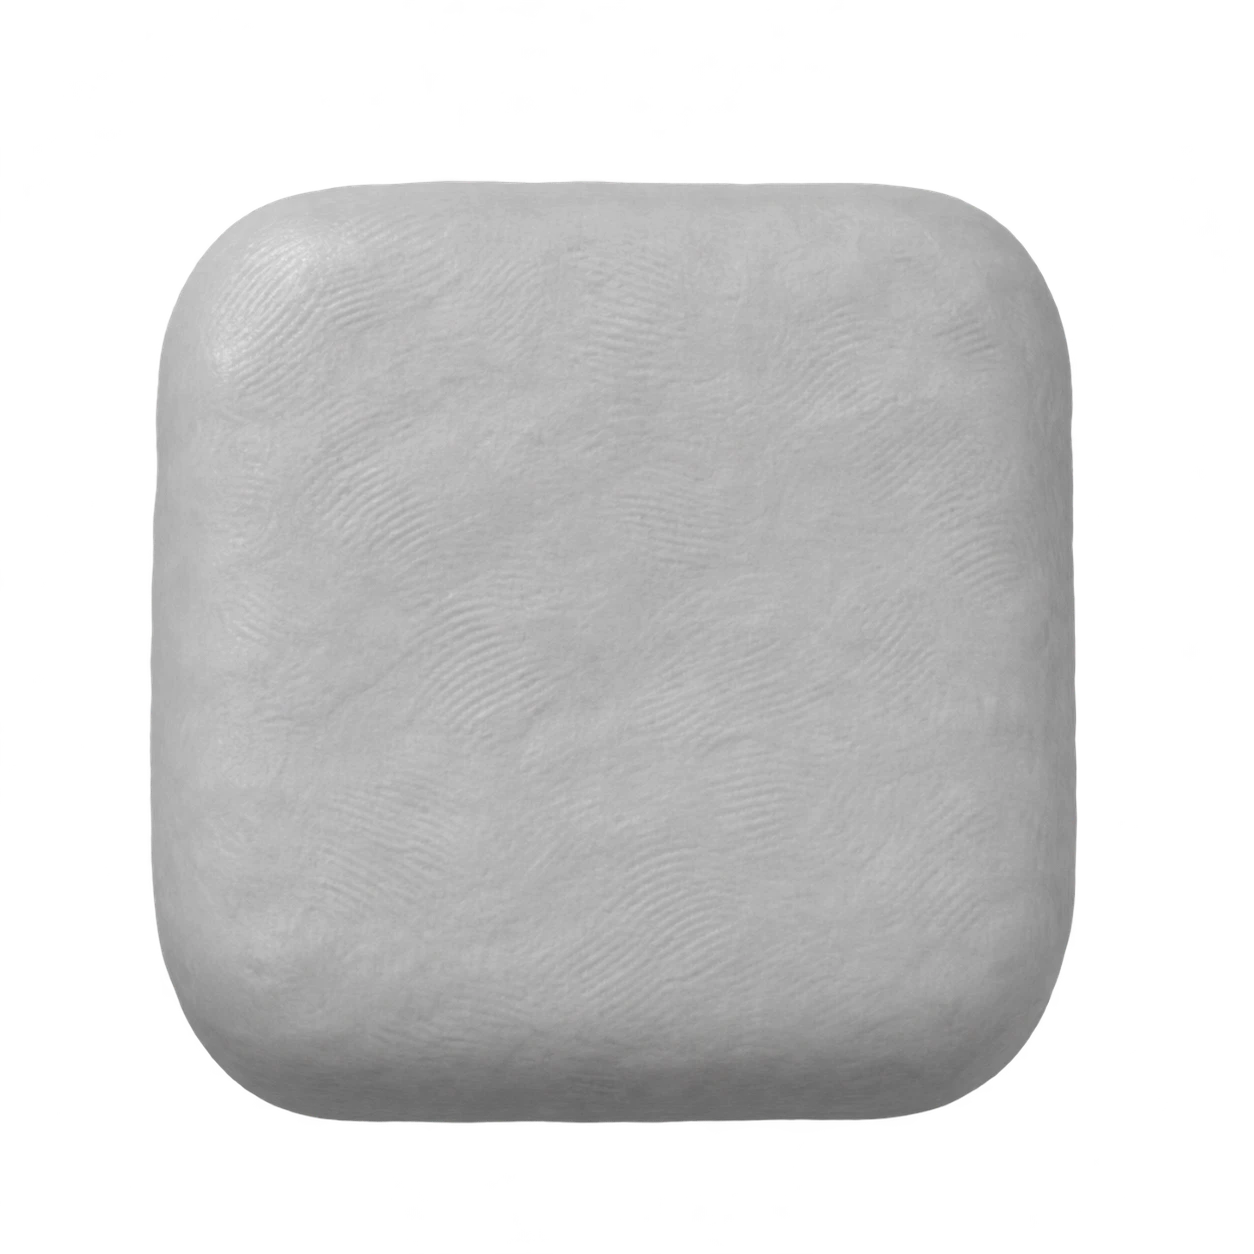
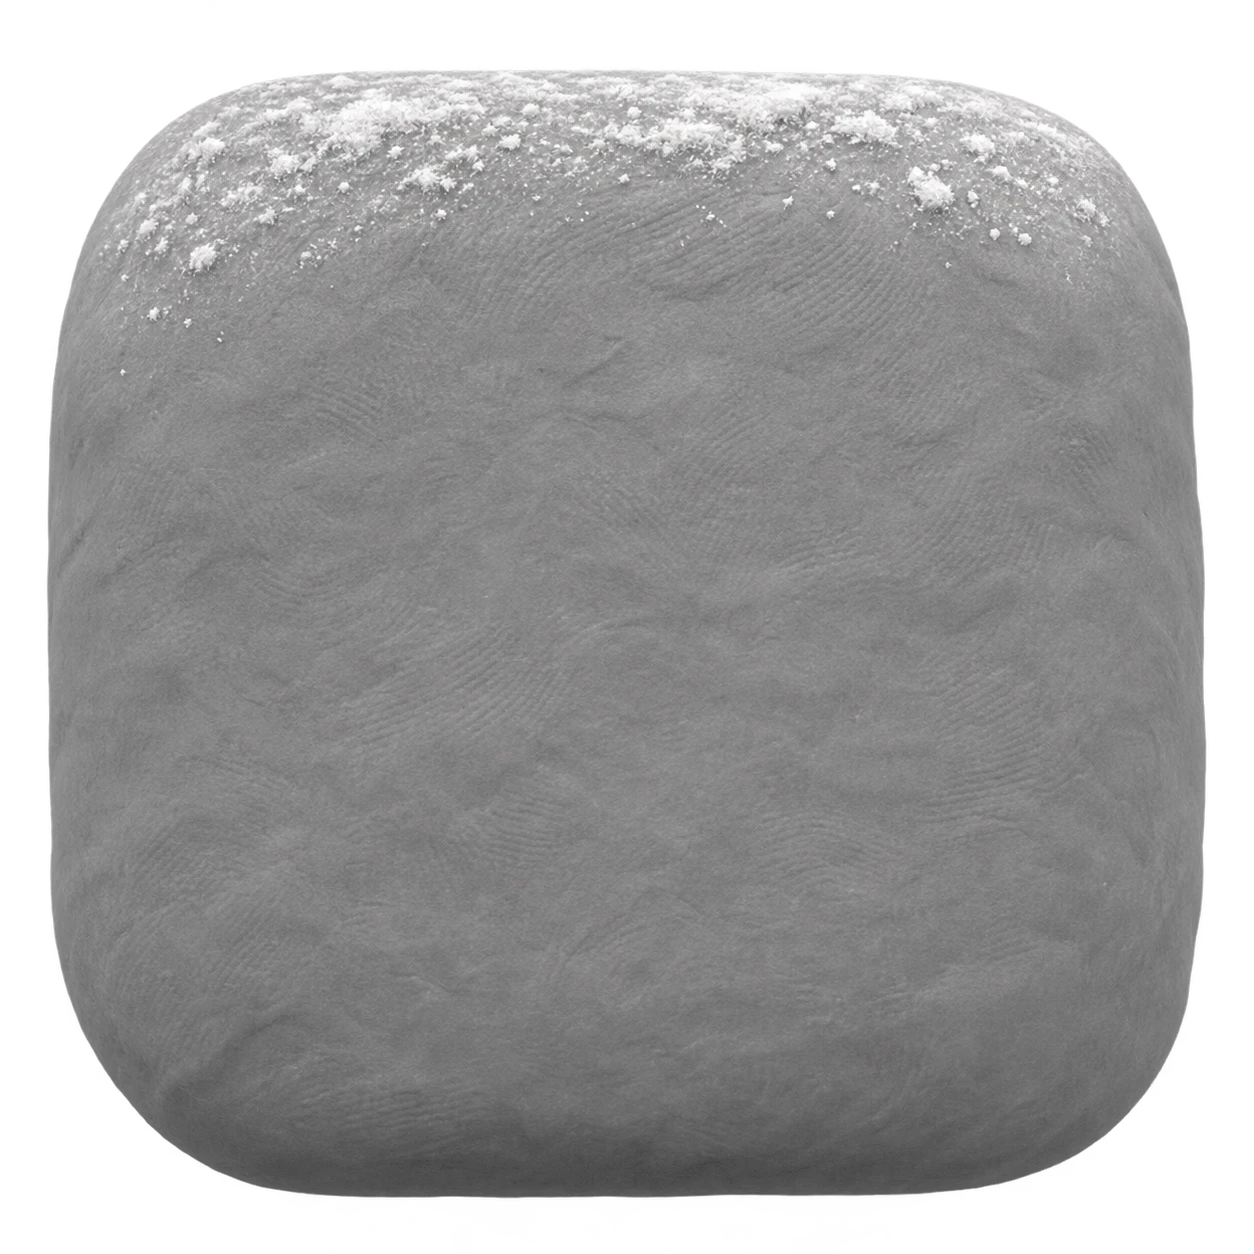
Yeni parça bloğu dokusu (keçemsi hamur, un serpintisi beyaz kalır)
Claude-Session: https://claude.ai/code/session_013YjY38wA9HkTsRWqx1GxrD

diff --git a/www/sw.js b/www/sw.js
@@ -1,6 +1,6 @@
 // Çevrimdışı: önbellekten anında aç, arkada güncelle (stale-while-revalidate).
 // Yeni dosya eklenince F listesine girer (robot www/ ile listeyi karşılaştırır: tools/hakem.cjs "sw.liste").
-const C = 'hamur-v53', F = ['./', 'index.html', 'style.css', 'i18n.js', 'ses.js', 'olcum.js', 'ads.js', 'shop.js', 'app.js', 'game.js', 'ekran.js', 'acilis.js', 'bolumler.js', 'rules/cekirdek.js', 'rules/cozucu.js', 'font/baloo-latin-ext.woff2', 'font/baloo-latin.woff2', 'font/titan-latin-ext.woff2', 'font/titan-latin.woff2', 'img/ac-kirmizi.webp', 'img/ac-mavi.webp', 'img/ac-mor.webp', 'img/ac-sari.webp', 'img/ac-turuncu.webp', 'img/ac-yesil.webp', 'img/acilis-grup.webp', 'img/acilis.webp', 'img/ada.webp', 'img/akrep.webp', 'img/ayarlar.webp', 'img/bastan.webp', 'img/blok.webp', 'img/bulut-1.webp', 'img/bulut-2.webp', 'img/bulut-3.webp', 'img/bulut-4.webp', 'img/bulut-5.webp', 'img/bulut-6.webp', 'img/canta.webp', 'img/damgalar.webp', 'img/doku.webp', 'img/duraklat.webp', 'img/duvar.webp', 'img/el.webp', 'img/figur-1.webp', 'img/figur-10.webp', 'img/figur-11.webp', 'img/figur-12.webp', 'img/figur-2.webp', 'img/figur-3.webp', 'img/figur-4.webp', 'img/figur-5.webp', 'img/figur-6.webp', 'img/figur-7.webp', 'img/figur-8.webp', 'img/figur-9.webp', 'img/geri.webp', 'img/girdap.webp', 'img/gok-2.webp', 'img/gok.webp', 'img/gok2.webp', 'img/gunluk.webp', 'img/hamur-dilim.webp', 'img/hamur-serit.webp', 'img/hap-kirmizi.webp', 'img/hap-mavi.webp', 'img/hap-mor.webp', 'img/hap-sari.webp', 'img/hap-turuncu.webp', 'img/hap-yesil.webp', 'img/hucre-2.webp', 'img/hucre.webp', 'img/ikon-192.png', 'img/ikon-512.png', 'img/kadran.webp', 'img/kalp-eriyor.webp', 'img/kalp.webp', 'img/kapat.webp', 'img/kar-1.webp', 'img/kar-2.webp', 'img/kar-3-kare.webp', 'img/kar-3.webp', 'img/kar-4-kare.webp', 'img/kar-4.webp', 'img/kar-5.webp', 'img/kar-6.webp', 'img/kayip-sure.webp', 'img/kayip-yapisma.webp', 'img/kazanc.webp', 'img/kilit.webp', 'img/klaket.webp', 'img/kurabiye-bos.webp', 'img/kurabiye-kilitli.webp', 'img/kurabiye-siradaki.webp', 'img/kurabiye-tamam.webp', 'img/logo.webp', 'img/m-alev.webp', 'img/m-canta.webp', 'img/m-hediye.webp', 'img/m-kalpler.webp', 'img/m-reklamsiz.webp', 'img/m-sandik.webp', 'img/makas-kapali.webp', 'img/makas.webp', 'img/n-ay.webp', 'img/n-cirpici-1.webp', 'img/n-cirpici-2.webp', 'img/n-donut.webp', 'img/n-ev.webp', 'img/n-merdiven.webp', 'img/n-oklava.webp', 'img/n-seker.webp', 'img/oynat.webp', 'img/panel.webp', 'img/parcacik.webp', 'img/saat.webp', 'img/serit.webp', 'img/ses.webp', 'img/sessiz.webp', 'img/sus-1.webp', 'img/sus-10.webp', 'img/sus-2.webp', 'img/sus-3.webp', 'img/sus-4.webp', 'img/sus-5.webp', 'img/sus-6.webp', 'img/sus-7.webp', 'img/sus-8.webp', 'img/sus-9.webp', 'img/tepsi-2.webp', 'img/tepsi.webp', 'img/top-kirmizi.webp', 'img/top-mor.webp', 'img/top-sari.webp', 'img/top-yesil.webp', 'img/yildiz-bos.webp', 'img/yildiz-yuz.webp', 'img/yildiz.webp', 'img/yol.webp', 'img/yuz-dikey.webp', 'img/yuzler.webp', ...['de', 'es', 'pt-BR', 'fr'].map(l => `lang/${l}.js`), 'ses/kayip.mp3', 'ses/kazan.mp3', 'ses/kes.mp3', 'ses/muzik.mp3', 'ses/otur.mp3', 'ses/yapis.mp3', 'manifest.json'];
+const C = 'hamur-v54', F = ['./', 'index.html', 'style.css', 'i18n.js', 'ses.js', 'olcum.js', 'ads.js', 'shop.js', 'app.js', 'game.js', 'ekran.js', 'acilis.js', 'bolumler.js', 'rules/cekirdek.js', 'rules/cozucu.js', 'font/baloo-latin-ext.woff2', 'font/baloo-latin.woff2', 'font/titan-latin-ext.woff2', 'font/titan-latin.woff2', 'img/ac-kirmizi.webp', 'img/ac-mavi.webp', 'img/ac-mor.webp', 'img/ac-sari.webp', 'img/ac-turuncu.webp', 'img/ac-yesil.webp', 'img/acilis-grup.webp', 'img/acilis.webp', 'img/ada.webp', 'img/akrep.webp', 'img/ayarlar.webp', 'img/bastan.webp', 'img/blok.webp', 'img/bulut-1.webp', 'img/bulut-2.webp', 'img/bulut-3.webp', 'img/bulut-4.webp', 'img/bulut-5.webp', 'img/bulut-6.webp', 'img/canta.webp', 'img/damgalar.webp', 'img/doku.webp', 'img/duraklat.webp', 'img/duvar.webp', 'img/el.webp', 'img/figur-1.webp', 'img/figur-10.webp', 'img/figur-11.webp', 'img/figur-12.webp', 'img/figur-2.webp', 'img/figur-3.webp', 'img/figur-4.webp', 'img/figur-5.webp', 'img/figur-6.webp', 'img/figur-7.webp', 'img/figur-8.webp', 'img/figur-9.webp', 'img/geri.webp', 'img/girdap.webp', 'img/gok-2.webp', 'img/gok.webp', 'img/gok2.webp', 'img/gunluk.webp', 'img/hamur-dilim.webp', 'img/hamur-serit.webp', 'img/hap-kirmizi.webp', 'img/hap-mavi.webp', 'img/hap-mor.webp', 'img/hap-sari.webp', 'img/hap-turuncu.webp', 'img/hap-yesil.webp', 'img/hucre-2.webp', 'img/hucre.webp', 'img/ikon-192.png', 'img/ikon-512.png', 'img/kadran.webp', 'img/kalp-eriyor.webp', 'img/kalp.webp', 'img/kapat.webp', 'img/kar-1.webp', 'img/kar-2.webp', 'img/kar-3-kare.webp', 'img/kar-3.webp', 'img/kar-4-kare.webp', 'img/kar-4.webp', 'img/kar-5.webp', 'img/kar-6.webp', 'img/kayip-sure.webp', 'img/kayip-yapisma.webp', 'img/kazanc.webp', 'img/kilit.webp', 'img/klaket.webp', 'img/kurabiye-bos.webp', 'img/kurabiye-kilitli.webp', 'img/kurabiye-siradaki.webp', 'img/kurabiye-tamam.webp', 'img/logo.webp', 'img/m-alev.webp', 'img/m-canta.webp', 'img/m-hediye.webp', 'img/m-kalpler.webp', 'img/m-reklamsiz.webp', 'img/m-sandik.webp', 'img/makas-kapali.webp', 'img/makas.webp', 'img/n-ay.webp', 'img/n-cirpici-1.webp', 'img/n-cirpici-2.webp', 'img/n-donut.webp', 'img/n-ev.webp', 'img/n-merdiven.webp', 'img/n-oklava.webp', 'img/n-seker.webp', 'img/oynat.webp', 'img/panel.webp', 'img/parcacik.webp', 'img/saat.webp', 'img/serit.webp', 'img/ses.webp', 'img/sessiz.webp', 'img/sus-1.webp', 'img/sus-10.webp', 'img/sus-2.webp', 'img/sus-3.webp', 'img/sus-4.webp', 'img/sus-5.webp', 'img/sus-6.webp', 'img/sus-7.webp', 'img/sus-8.webp', 'img/sus-9.webp', 'img/tepsi-2.webp', 'img/tepsi.webp', 'img/top-kirmizi.webp', 'img/top-mor.webp', 'img/top-sari.webp', 'img/top-yesil.webp', 'img/yildiz-bos.webp', 'img/yildiz-yuz.webp', 'img/yildiz.webp', 'img/yol.webp', 'img/yuz-dikey.webp', 'img/yuzler.webp', ...['de', 'es', 'pt-BR', 'fr'].map(l => `lang/${l}.js`), 'ses/kayip.mp3', 'ses/kazan.mp3', 'ses/kes.mp3', 'ses/muzik.mp3', 'ses/otur.mp3', 'ses/yapis.mp3', 'manifest.json'];
 self.addEventListener('install', e => e.waitUntil(caches.open(C).then(c => c.addAll(F)).then(() => self.skipWaiting())));
 self.addEventListener('activate', e => e.waitUntil(caches.keys().then(k => Promise.all(k.filter(x => x !== C).map(x => caches.delete(x)))).then(() => self.clients.claim())));
 self.addEventListener('fetch', e => {

diff --git a/www/game.js b/www/game.js
@@ -621,7 +621,8 @@ function yastik(hex) {
   let c = boyali.get(hex); if (c || !blokGri) return c || null;
   c = document.createElement('canvas'); c.width = c.height = BLOK;
   const x = c.getContext('2d'), id = x.createImageData(BLOK, BLOK), o = id.data, [r, g, b] = rgb(hex);
-  for (let i = 0; i < BLOK * BLOK; i++) { const k = blokGri[i * 2] / blokOrt; o[i * 4] = r * k; o[i * 4 + 1] = g * k; o[i * 4 + 2] = b * k; o[i * 4 + 3] = blokGri[i * 2 + 1]; }
+  for (let i = 0; i < BLOK * BLOK; i++) { const k = blokGri[i * 2] / blokOrt, un = k > 1.3 ? Math.min(1, (k - 1.3) / .45) : 0;   // çok açık pikseller un serpintisidir: beyaza döner
+    o[i * 4] = r * k * (1 - un) + 255 * un; o[i * 4 + 1] = g * k * (1 - un) + 255 * un; o[i * 4 + 2] = b * k * (1 - un) + 255 * un; o[i * 4 + 3] = blokGri[i * 2 + 1]; }
   x.putImageData(id, 0, 0); if (boyali.size > 80) boyali.clear(); boyali.set(hex, c); return c;
 }
 const koyu = (h, s) => '#' + rgb(h).map(v => Math.round(v * s).toString(16).padStart(2, '0')).join('');
